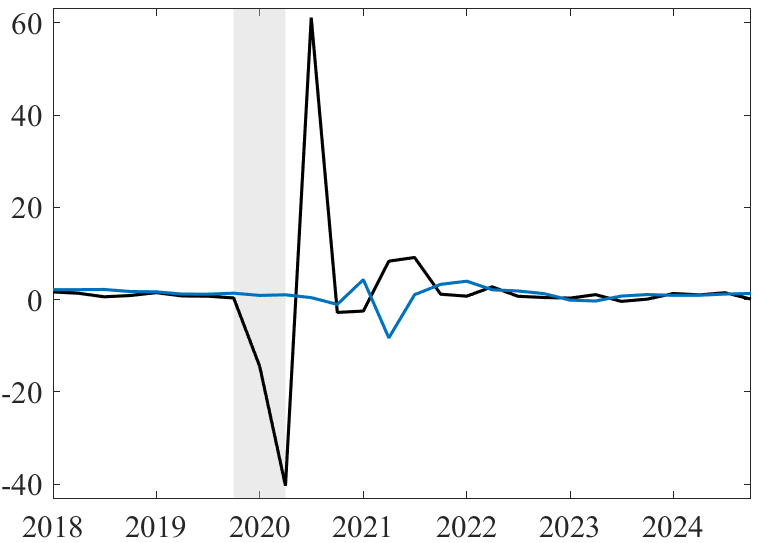
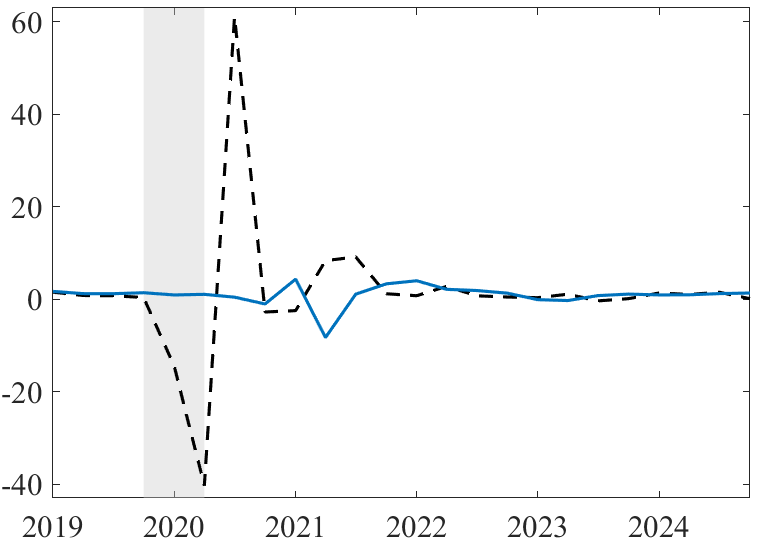
Restuctured the code for printing the results in the correct order. Added some results excluding the COVID-19 pandemic.
Small adjustments of Matlab plots.

diff --git a/matlab_plots/MatlabPlotScript.m b/matlab_plots/MatlabPlotScript.m
@@ -6,7 +6,7 @@ clc
 
 % Read in plot data
 data = readtable('SPF_plot_data.csv');
-data(data.target_year < 2001,:) = [];
+data(data.target_year < 2002,:) = [];
 
 % Create date variable
 year = data.target_year;
@@ -63,7 +63,7 @@ for h = 0:3
     end
 
     % Plot GDP growth
-    plot(dates(plot_ind),data.gdp_growth(plot_ind),'Linewidth',1.5,'Linestyle','-','color','black')
+    plot(dates(plot_ind),data.gdp_growth(plot_ind),'Linewidth',1.5,'Linestyle','--','color','black')
     hold on
     
     % Plot SPF h-step-ahead forecast
@@ -96,7 +96,7 @@ end
 hfig = figure;
 
 % Draw empty plot
-p1 = plot(NaN,NaN,'Linewidth',1.5,'Linestyle','-','color','black');
+p1 = plot(NaN,NaN,'Linewidth',1.5,'Linestyle','--','color','black');
 hold on
 p2 = plot(NaN,NaN,'Linewidth',1.5,'Linestyle','-','color','#0072BD');
 
@@ -197,7 +197,7 @@ FileName = 'SPF_forecast_COVID_h';
 
 
 % Dates to be plotted
-plot_ind = ~isnan(data.gdp_growth) & data.target_year > 2017 & data.target_year < 2025;
+plot_ind = ~isnan(data.gdp_growth) & data.target_year > 2018 & data.target_year < 2025;
 
 % Loop over forecast horizons
 for h = 0:3
@@ -221,7 +221,7 @@ for h = 0:3
     end
 
     % Plot GDP growth
-    plot(dates(plot_ind),data.gdp_growth(plot_ind),'Linewidth',1.5,'Linestyle','-','color','black')
+    plot(dates(plot_ind),data.gdp_growth(plot_ind),'Linewidth',1.5,'Linestyle','--','color','black')
     hold on
     
     % Plot SPF h-step-ahead forecast
